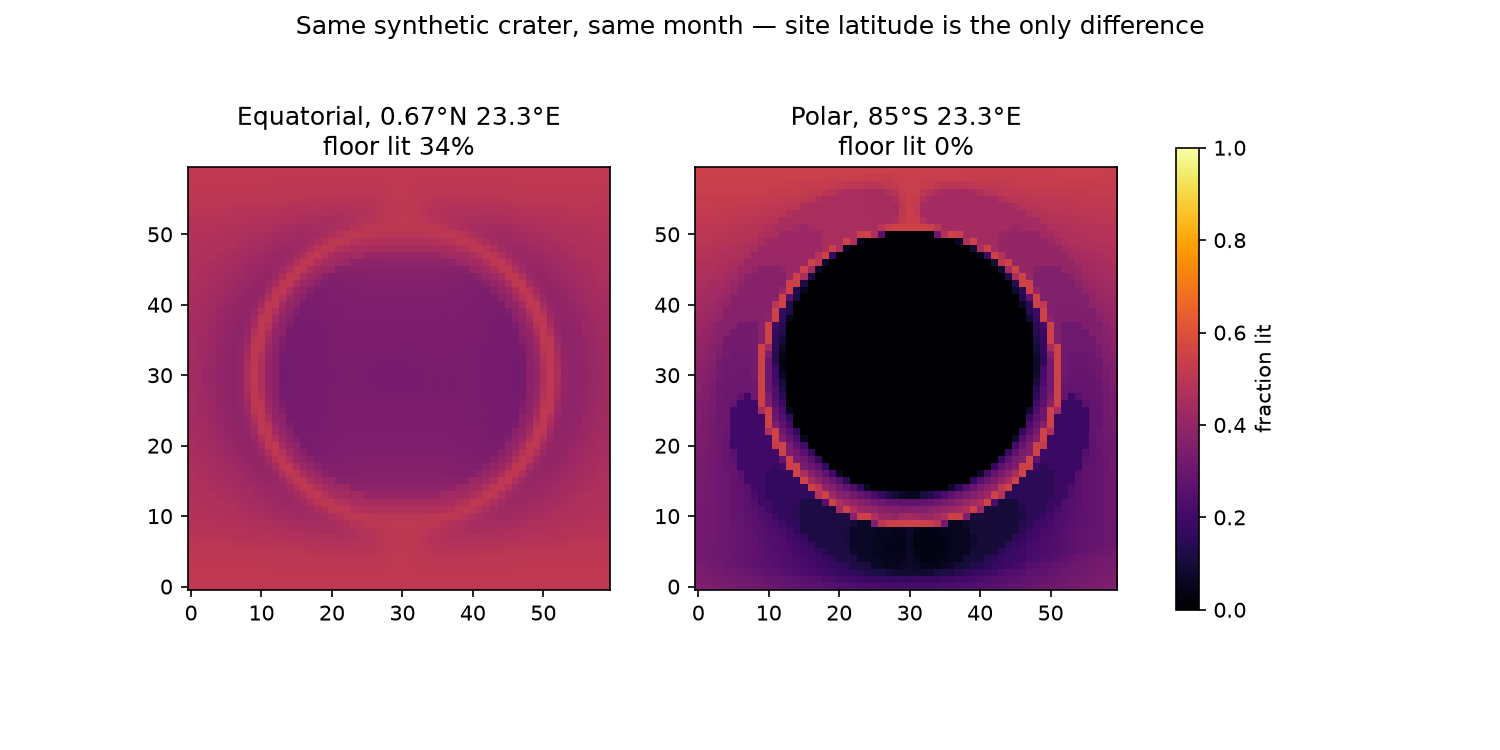
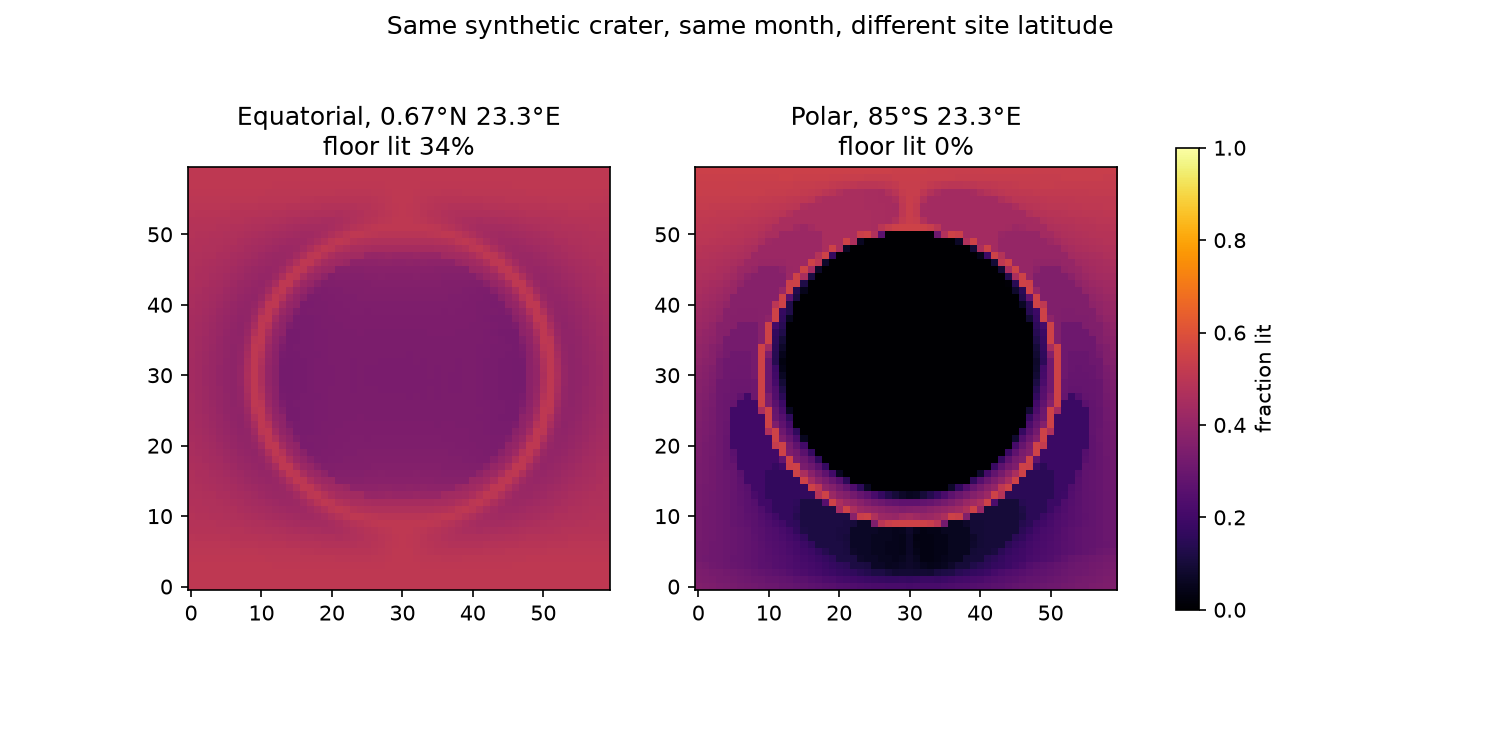
small changes

Changed region(s): [[0.184, 0.0, 0.7973, 0.0613]]

diff --git a/illumination_compare.py b/illumination_compare.py
@@ -24,7 +24,7 @@ for ax, csv_path, title in zip(axes, [eq_path, polar_path], titles):
     ax.set_title(f"{title}\nfloor lit {lit[cy, cx] * 100:.0f}%")
 
 fig.colorbar(im, ax=axes, label="fraction lit", shrink=0.8)
-fig.suptitle("Same synthetic crater, same month — site latitude is the only difference")
+fig.suptitle("Same synthetic crater, same month, different site latitude")
 
 plt.savefig("illumination_compare.png", dpi=150)
 plt.show()

diff --git a/README.md b/README.md
@@ -15,14 +15,14 @@ Its purpose is to validate the geometry before it is reimplemented in Unreal
 | `get_kernels.sh` / `get_kernels.ps1` | Download the kernels (Linux/macOS and Windows). |
 | `kernels/` | NAIF data files (not code). See below. |
 | `ephemeris.csv` | Output for the default site, 0.67°N 23.3°E: `utc, sun_az, sun_el, earth_az, earth_el`. |
-| `ephemeris_polar.csv` | Same run, site 85°S — Sun circles the horizon instead of arcing overhead. |
+| `ephemeris_polar.csv` | Same run, site 85°S - Sun circles the horizon instead of arcing overhead. |
 | `skyplot.py` | Animates the Sun's daily arc + Earth cluster on a polar sky plot. Reads `ephemeris.csv`. |
 | `shadow.py` | Animates a unit block's shadow (`L = h/tan(el)`), plus an `L` vs time panel. `python shadow.py [csv] [gif]`. |
 | `heightmap.py` | Shared terrain + horizon-shadowing logic (`synthetic_crater`, `load_lola_crop`, `shadow_mask`, `illumination_map`) used by the two scripts below. Not a standalone script. |
-| `shadow_heightmap.py` | Horizon-shadowing animation over a heightmap: per-cell, per-frame line-of-sight to the Sun. Writes `illumination_map.png` (% of the CSV's timespan each cell is lit). `python shadow_heightmap.py [csv] [gif] [dem.tif]` — omit `dem.tif` for the built-in synthetic crater, or pass a cropped LOLA GeoTIFF to shadow real terrain. |
+| `shadow_heightmap.py` | Horizon-shadowing animation over a heightmap: per-cell, per-frame line-of-sight to the Sun. Writes `illumination_map.png` (% of the CSV's timespan each cell is lit). `python shadow_heightmap.py [csv] [gif] [dem.tif]` - omit `dem.tif` for the built-in synthetic crater, or pass a cropped LOLA GeoTIFF to shadow real terrain. |
 | `illumination_compare.py` | Same synthetic crater against two CSVs side by side (default: `ephemeris.csv` vs `ephemeris_polar.csv`) → `illumination_compare.png`. `python illumination_compare.py [csv1] [csv2]`. |
 | `skyfieldvalidation.py` | Independent cross-check of a CSV against Skyfield (see Validation). |
-| `*.gif` / `*.png` | Generated by the scripts above — not source, safe to delete and regenerate. |
+| `*.gif` / `*.png` | Generated by the scripts above - not source, safe to delete and regenerate. |
 
 ## Kernels
 
@@ -96,8 +96,8 @@ chmod +x get_kernels.sh
 
 (`matplotlib` + `pillow` are only needed for the `skyplot.py` / `shadow.py` /
 `shadow_heightmap.py` animations, not for `emphemeris.py` itself. On distros
-where system `pip` refuses global installs — "externally-managed-environment"
-— the venv above is required, not optional.)
+where system `pip` refuses global installs - "externally-managed-environment"
+- the venv above is required, not optional.)
 
 ### Windows (PowerShell)
 
@@ -139,7 +139,7 @@ python emphemeris.py
 ```
 
 Run from the project root so the relative kernel paths in `smp.tm` resolve.
-Press enter on any prompt to take the default — the defaults reproduce
+Press enter on any prompt to take the default - the defaults reproduce
 `ephemeris.csv`. `ephemeris_polar.csv` was generated the same way with
 latitude `-85`.
 
@@ -155,41 +155,41 @@ python illumination_compare.py                        # -> illumination_compare.
 
 `shadow_heightmap.py` builds a synthetic bowl-plus-rim crater by default and,
 per frame, marches every cell toward the Sun to see whether another cell's
-height pokes above the sun ray — horizon-based shadowing, the same algorithm
+height pokes above the sun ray - horizon-based shadowing, the same algorithm
 the "% of time lit" overlay would use. It also sums the boolean shadow map
 over every row in the CSV into an illumination map: on the default
 equatorial site, the crater floor comes out lit ~34% of the time against
 ~50% for the rim and surrounding flat ground.
 
 Run against `ephemeris_polar.csv` (85°S), the same crater's floor is lit
-**0%** of the month — a permanently shadowed region, the low-sun-angle
-geometry that makes polar craters candidates for water ice — while the rim
+**0%** of the month - a permanently shadowed region, the low-sun-angle
+geometry that makes polar craters candidates for water ice - while the rim
 still sees ~55%. `illumination_compare.py` puts both side by side
-(`illumination_compare.png`) — same crater, same month, latitude is the
-only difference — and is the clearer demo than either heatmap alone.
+(`illumination_compare.png`) - same crater, same month, latitude is the
+only difference - and is the clearer demo than either heatmap alone.
 
 The terrain and shadow logic live in `heightmap.py` so both scripts (and
 any future ones) share one implementation. `load_lola_crop(path, size=100)`
 reads a real LOLA GeoTIFF crop with `rasterio` and downsamples it to
-`size`×`size` cells — pass that path as `shadow_heightmap.py`'s third
+`size`×`size` cells - pass that path as `shadow_heightmap.py`'s third
 argument to shadow actual terrain instead of the synthetic crater. It
 handles two things a raw `read(1)` would get wrong: GeoTIFF row 0 is north,
 but `shadow_mask` treats +row as +north, so the array is flipped; and
 heights come back in metres while `shadow_mask`'s march distance `d` is in
 cell units, so heights are divided by `pixel spacing × downsample step` to
-match — skip that and a real crater's shadow length comes out scaled by
+match - skip that and a real crater's shadow length comes out scaled by
 however many metres one pixel covers (5, 20, 118…), silently wrong rather
 than crashing. Verified against a synthetic GeoTIFF with a known-position
 bump (correct flip, correct scaling) but not yet against a real LOLA tile.
 
-Only equirectangular projections are handled correctly — LOLA's south-pole
+Only equirectangular projections are handled correctly - LOLA's south-pole
 product is polar-stereographic, where "up" in the raster is lunar north
 only along the crop's central meridian, so azimuth would need remapping
 per-longitude before this applies. Use an equirectangular tile (LOLA's
 equirectangular products are fine down to ~80° latitude) for the first
 real-tile test; treat polar-stereographic tiles as a follow-up.
 
-Getting a tile: USGS Astrogeology's lunar LOLA product page — search
+Getting a tile: USGS Astrogeology's lunar LOLA product page - search
 "LOLA LDEM 118m" (or "LDEM 20m" for finer detail; the 118 m/px global
 GeoTIFF is ~2 GB). Crop a region out of it with QGIS or
 `gdal_translate -projwin`. `pip install rasterio` pulls GDAL bindings and
